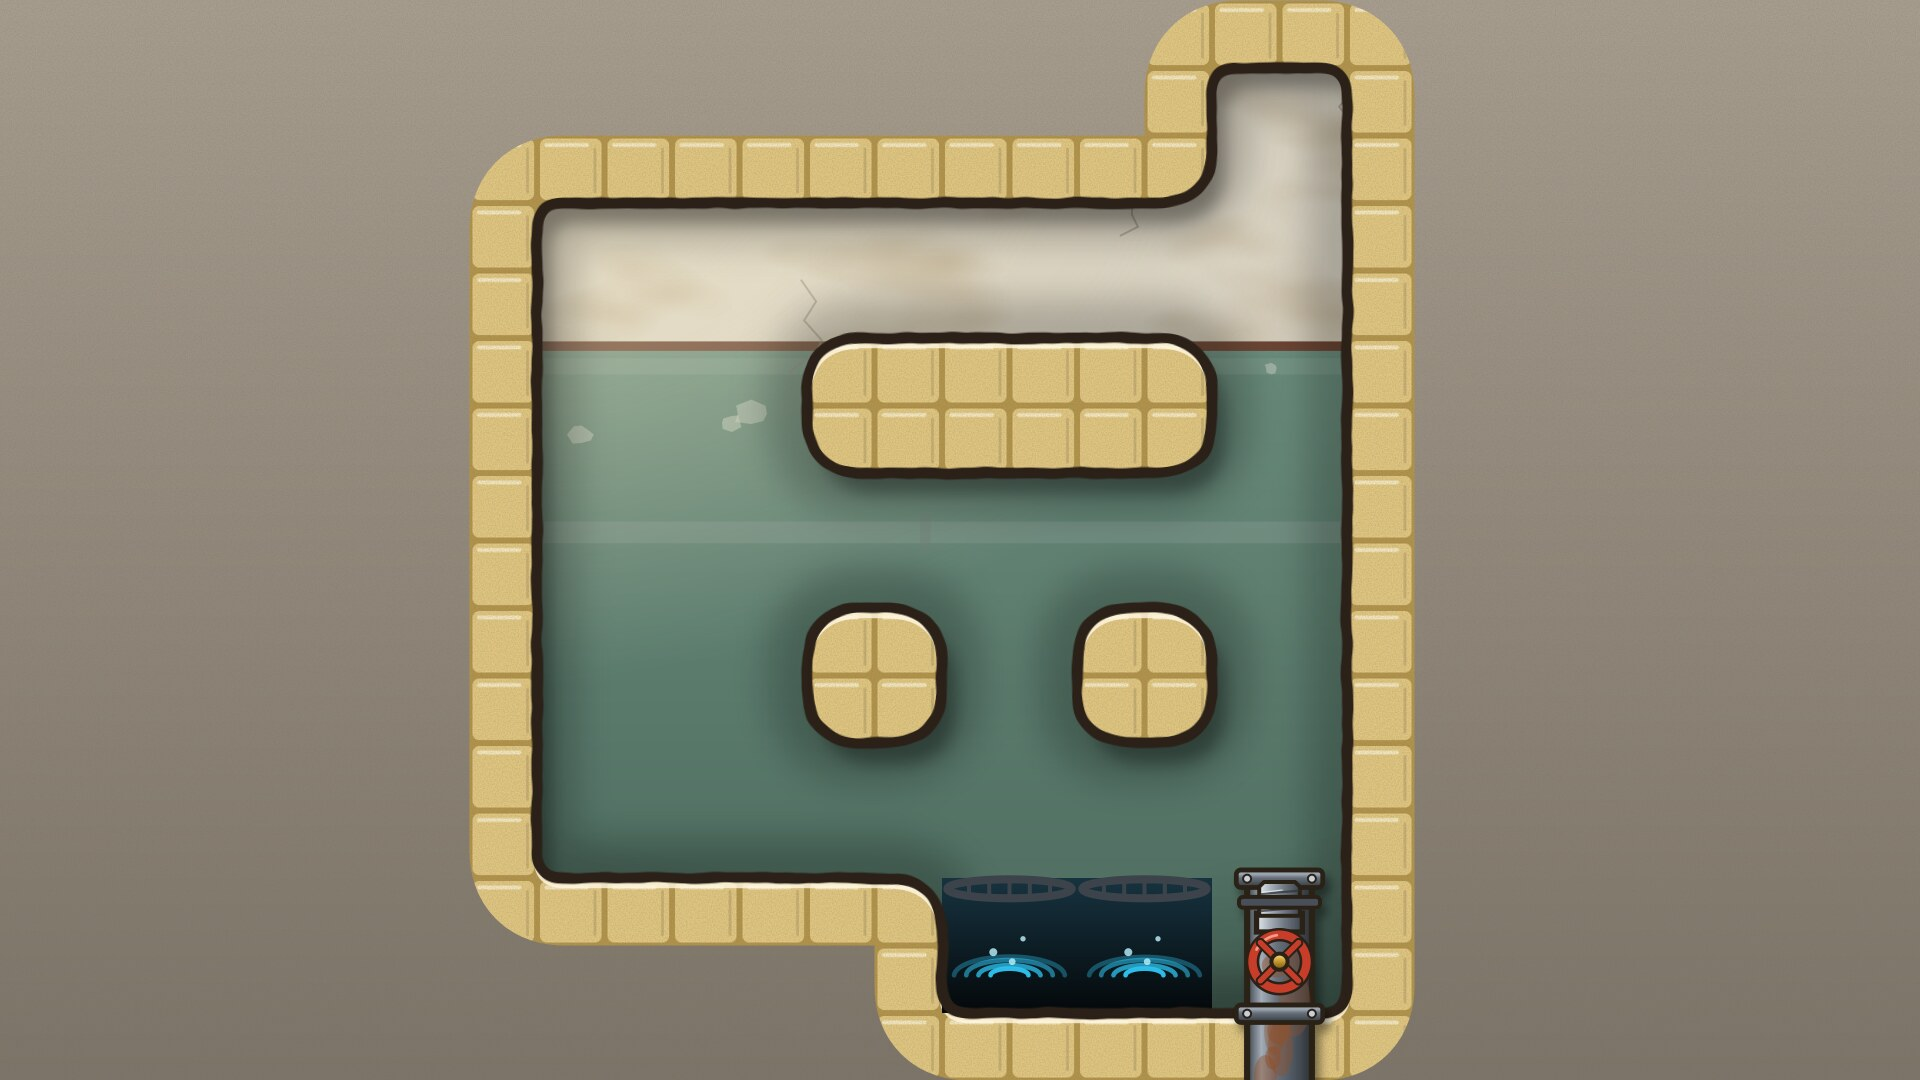
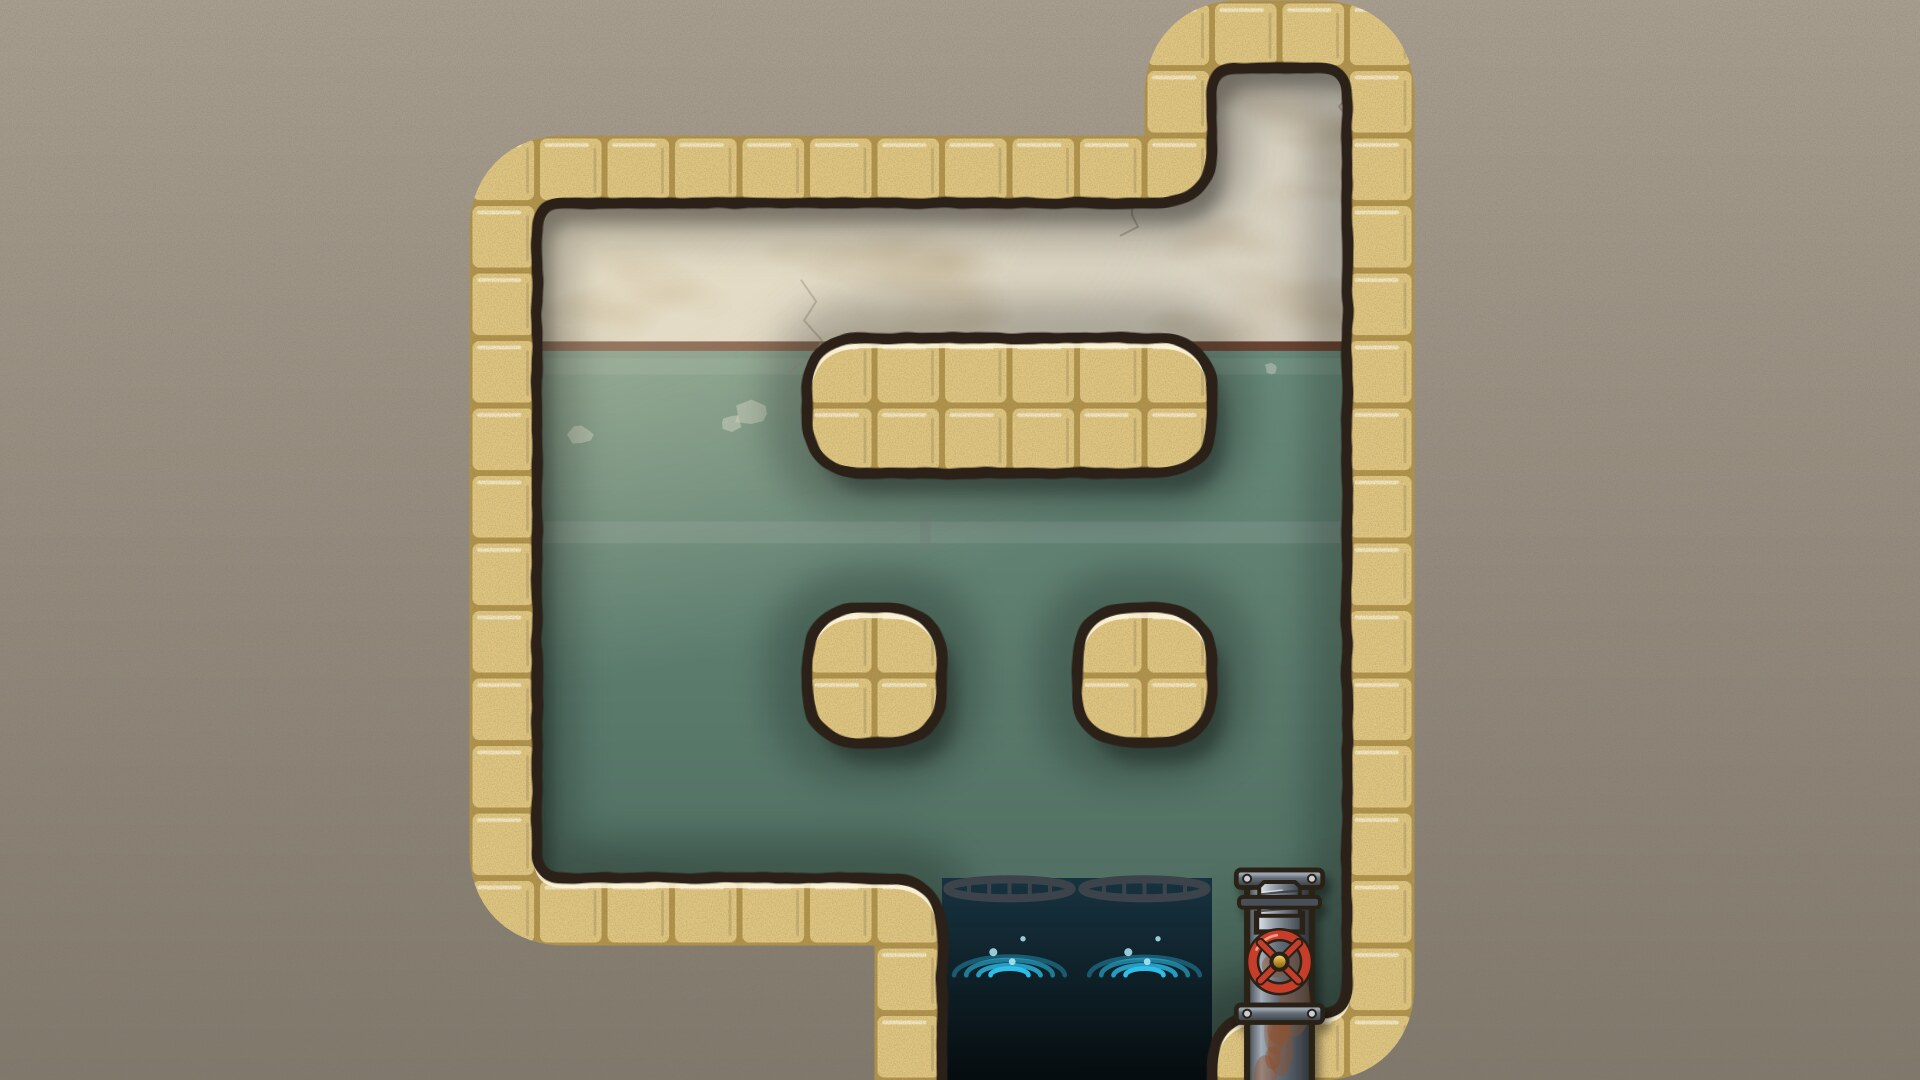
Фон: шахта слива уходит вниз до края экрана, даже если слив не в нижнем ряду (кв. 9)
Claude-Session: https://claude.ai/code/session_01KTF9zcDbthXae1taWntBSd

Changed region(s): [[0.4375, 0.9167, 0.6562, 1.0]]

diff --git a/art/gen2.py b/art/gen2.py
@@ -713,10 +713,17 @@ def frame(lv, moves=0, active='head', no_lap=False, hud=True, skip=()):
     c, ox, oy = gen.geom(lv)  # геометрия поля — одна формула с game/board.lua (Board.geom)
     ml, mt = math.ceil(ox / c) + 1, math.ceil(oy / c) + 1
 
+    # шахта слива уходит вниз до края экрана, даже если слив не в нижнем ряду (03.10, Lao: «стенка под сливом абсурдна»);
+    # клетки стены под сливом недостижимы, так что это только картинка
+    shaft = {x: min(y for y in range(1, H + 1) if grid[y - 1][x - 1] == '~') for x in range(1, W + 1)
+             if any(grid[y - 1][x - 1] == '~' for y in range(1, H + 1))}
+
     def empty(x, y):
+        if x in shaft and y > shaft[x]:
+            return y <= H + mt
         if 1 <= x <= W and 1 <= y <= H:
             return grid[y - 1][x - 1] != '#'
-        return 1 <= x <= W and H < y <= H + mt and grid[H - 1][x - 1] == '~'
+        return False
     room_d = ' '.join(loop_d(simplify(lp), c, ox, oy, .20, .42) for lp in trace(empty, (1 - ml, W + ml), (1 - mt, H + mt)))
     terr_d = 'M -40 -40 H 1960 V 1120 H -40 Z ' + room_d
     extra = defs2(c, ox, oy, lv.get('tile', 'mint')) + ('<clipPath id="cRoom"><path d="%s" clip-rule="evenodd"/></clipPath>'
@@ -731,7 +738,7 @@ def frame(lv, moves=0, active='head', no_lap=False, hud=True, skip=()):
     for y in range(1, H + 1):
         for x in range(1, W + 1):
             if grid[y - 1][x - 1] == '~':      # слив — прежний (решётка в перспективе и воронка), решение Lao 03.10
-                s.append(drain2(ox + (x - .5) * c, oy + (y - .5) * c, c, 1100 if y == H else oy + y * c))
+                s.append(drain2(ox + (x - .5) * c, oy + (y - .5) * c, c, 1100))
     s.append(Pa(room_d, stroke=Q['ol'], stroke_width=.08 * c, stroke_linejoin='round', filter='url(#wob)'))
     wl = lambda x, y: 1 <= x <= W and 1 <= y <= H and grid[y - 1][x - 1] == '#'
 
